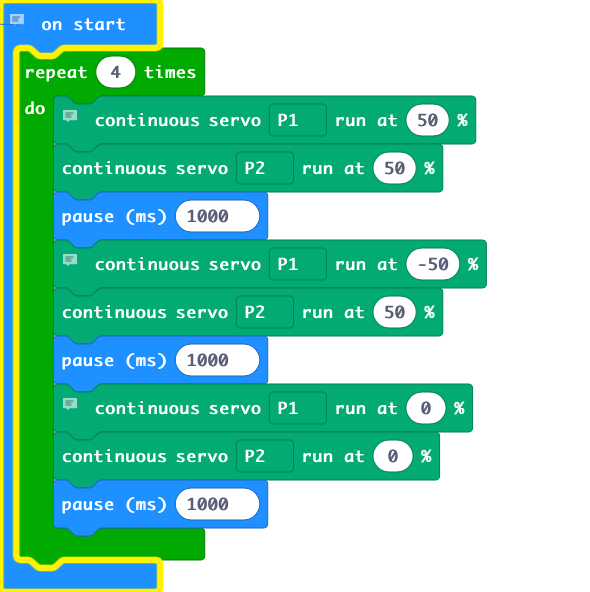
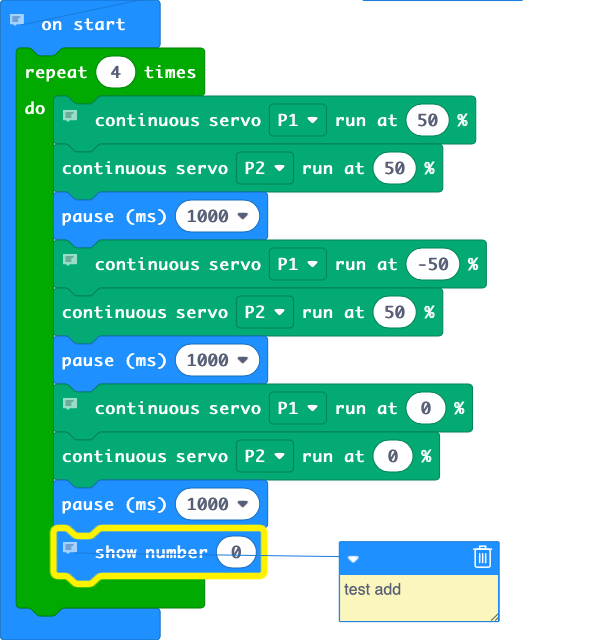
Update main.blocks, main.ts

diff --git a/main.ts b/main.ts
@@ -12,4 +12,6 @@ for (let index = 0; index < 4; index++) {
     servos.P1.run(0)
     servos.P2.run(0)
     basic.pause(1000)
+    // test add
+    basic.showNumber(0)
 }
